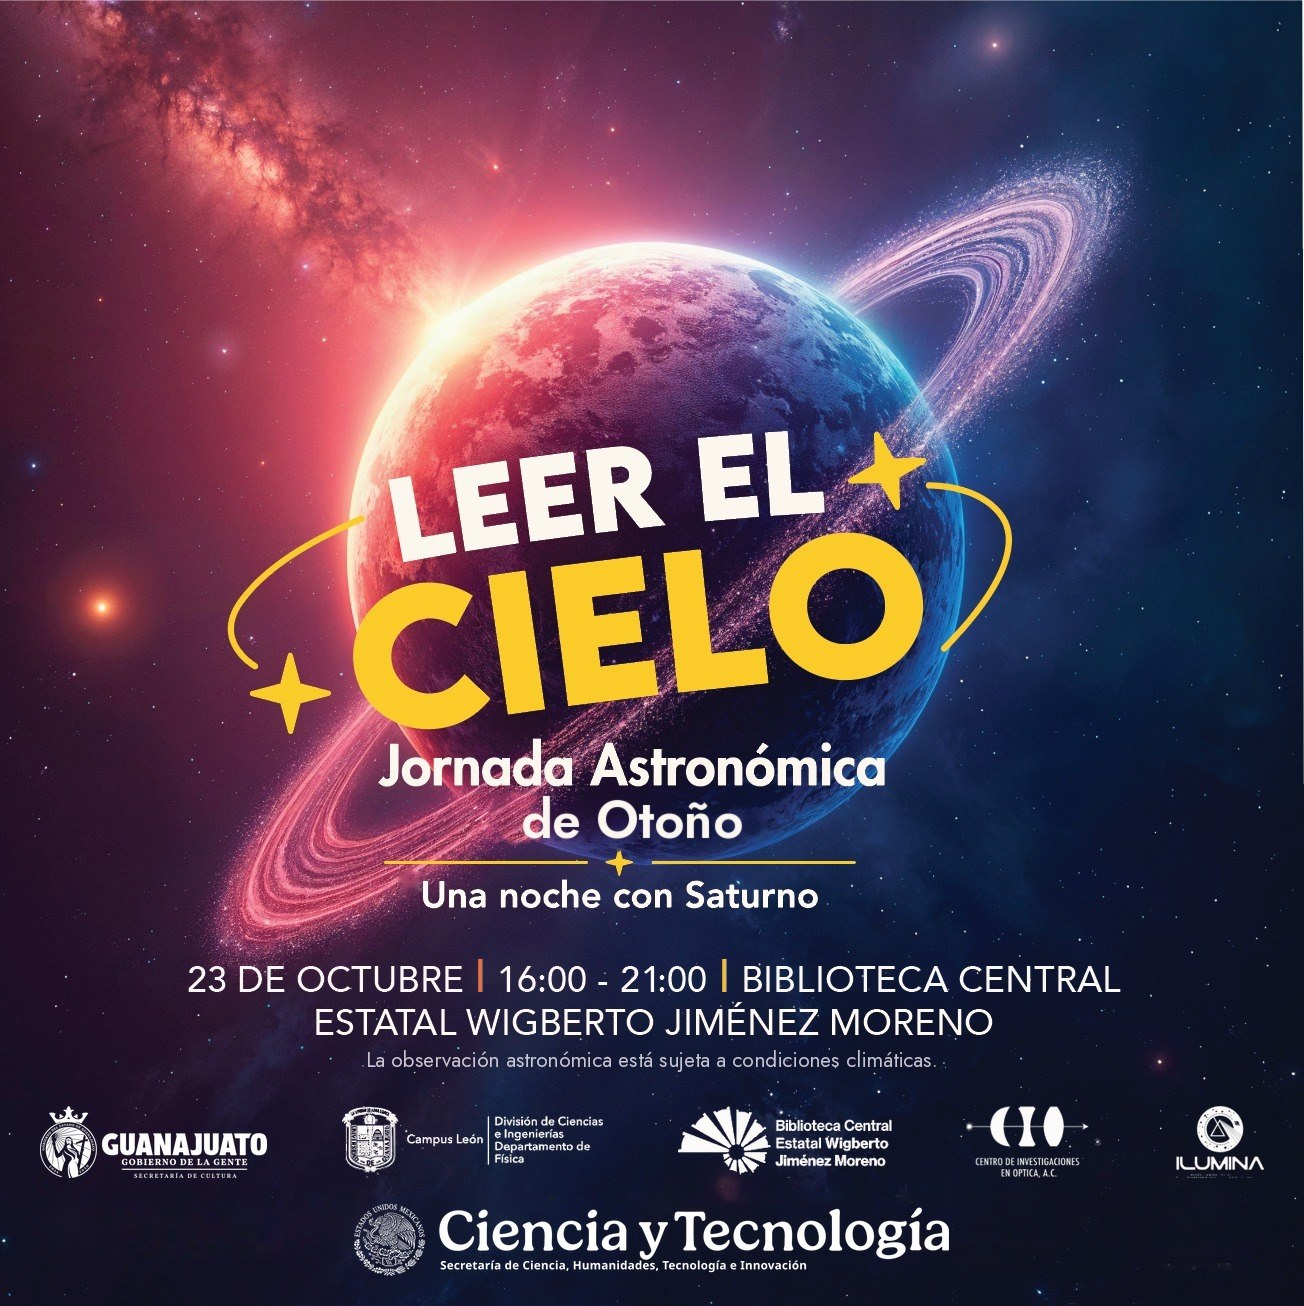
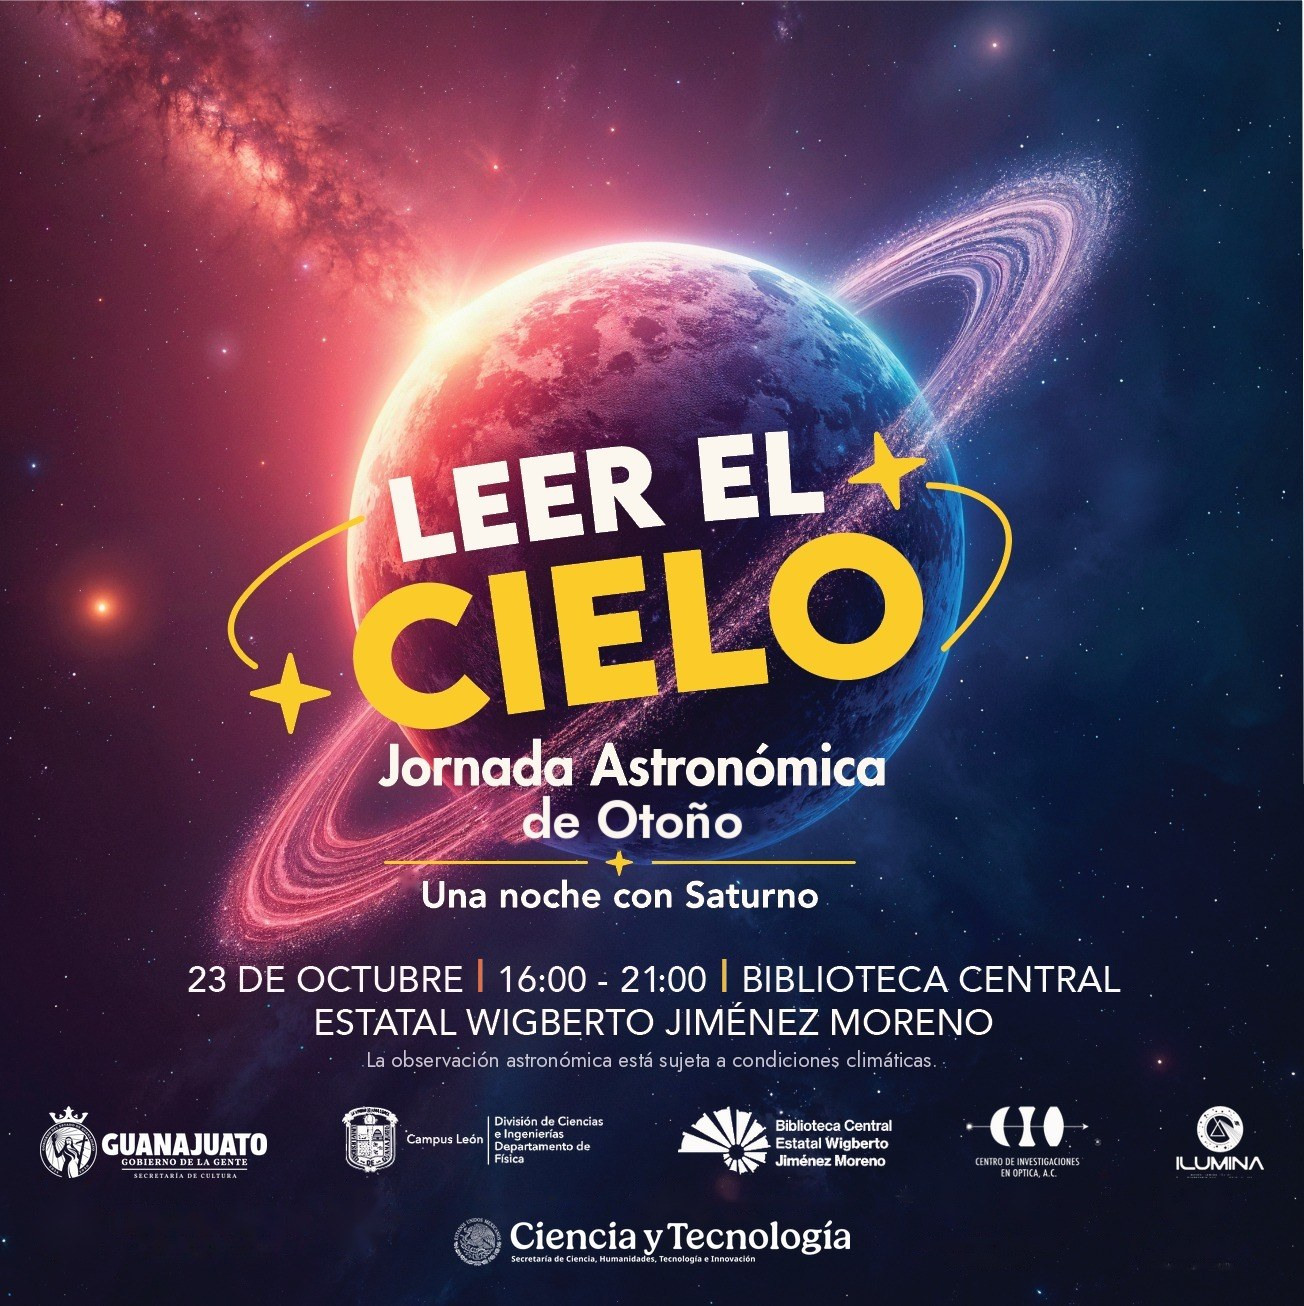
SECIHTI de nuevo más discreto: 40 px en la página y proporcional en la postal
Claude-Session: https://claude.ai/code/session_016sucewvtQMTiaJgYjAcCVV

Changed region(s): [[0.2761, 0.9188, 0.7362, 0.9801]]

diff --git a/index.html b/index.html
@@ -12,7 +12,7 @@
 <link rel="preconnect" href="https://fonts.googleapis.com">
 <link rel="preconnect" href="https://fonts.gstatic.com" crossorigin>
 <link href="https://fonts.googleapis.com/css2?family=Jost:ital,wght@0,400;0,500;0,600;0,800;1,400&display=swap" rel="stylesheet">
-<link rel="stylesheet" href="assets/css/style.css?v=2026-10-18h">
+<link rel="stylesheet" href="assets/css/style.css?v=2026-10-18i">
 </head>
 <body>
 <div class="sky" aria-hidden="true"></div>
@@ -165,6 +165,6 @@
   </div>
 </footer>
 
-<script src="assets/js/main.js?v=2026-10-18h"></script>
+<script src="assets/js/main.js?v=2026-10-18i"></script>
 </body>
 </html>

diff --git a/assets/css/style.css b/assets/css/style.css
@@ -263,3 +263,7 @@ section[id],#destacada{scroll-margin-top:84px}
   padding:10px 14px;border-radius:9px;text-decoration:none;cursor:pointer;min-height:44px}
 .menu-list a:hover,.menu-list button:hover{background:rgba(255,255,255,.08);color:var(--yellow)}
 
+
+/* SECIHTI: logo de apoyo, un poco más discreto que los de las instituciones organizadoras */
+.logos img[src*="secihti"]{height:40px}
+@media (max-width:480px){.logos img[src*="secihti"]{height:30px}}
